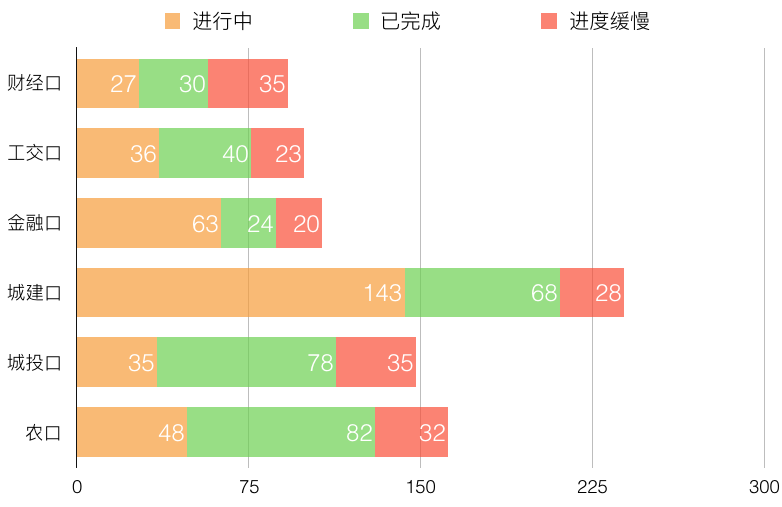
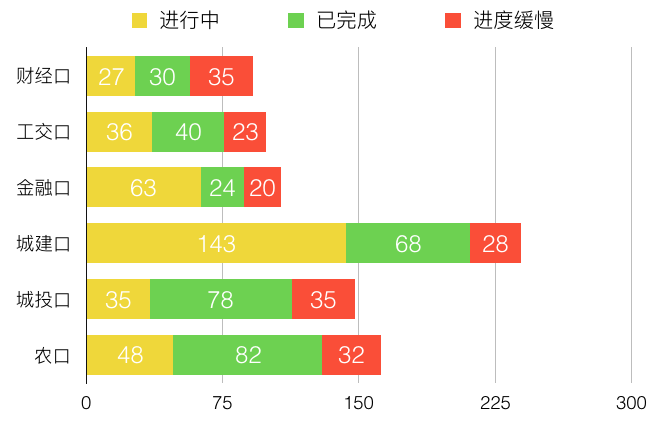
add chart view.

diff --git a/ZhengFu.js b/ZhengFu.js
@@ -18,11 +18,11 @@ var ZhengFu = React.createClass({
   _loadChart: function() {
     if(Platform.OS === 'ios') {
       return (
-        <Image style={styles.chart} source={require('./images/piechart.png')}/>
+        <Image style={styles.chart} source={require('./images/piechart2.png')}/>
       );
     } else {
       return (
-        <Image style={styles.chart} source={{uri: 'piechart'}} />
+        <Image style={styles.chart} source={{uri: 'piechart2'}} />
       );
     }
   },
@@ -31,19 +31,32 @@ var ZhengFu = React.createClass({
     return (
       <View style={styles.container}>
         <ScrollView style={{flex: 1, marginBottom: 55, marginTop: 10}}>
+          <View style={styles.chartBox}>
+            <Text style={styles.title}>2016年安康市委督办项目完成情况</Text>
+            <TouchableOpacity onPress={() => Actions.chart()}>
+              {this._loadChart('piechart')}
+            </TouchableOpacity>
+            <TouchableOpacity onPress={() => Actions.chart()}>
+              <View style={{height: 40, alignItems: 'center',
+                justifyContent: 'center', borderTopWidth: 1,
+                borderColor: '#DFDFDF'}}>
+                <Text style={{color: '#1DB8FF', fontSize: 18}}>更多</Text>
+              </View>
+            </TouchableOpacity>
+          </View>
           <Text style={{marginLeft: 10, marginBottom: 5, color: 'grey'}}>按类型</Text>
           <View style={[styles.grid, {marginBottom: 15}]}>
             <View style={[styles.row, styles.gridRow]}>
               <View style={[styles.item]}>
                 <TouchableOpacity onPress={() => Actions.units({title: '政府工作报告', type2: 'gzbg'})}>
                   <Text style={styles.itemTitle}>政府工作报告</Text>
-                  <Text style={styles.itemSubTitle}>153个</Text>
+                  <Text style={styles.itemSubTitle}>123个</Text>
                 </TouchableOpacity>
               </View>
               <View style={[styles.item]}>
                 <TouchableOpacity onPress={() => Actions.units({title: '重点项目', type2: 'zdxm'})}>
                   <Text style={styles.itemTitle}>重点项目</Text>
-                  <Text style={styles.itemSubTitle}>580个</Text>
+                  <Text style={styles.itemSubTitle}>380个</Text>
                 </TouchableOpacity>
               </View>
             </View>
@@ -51,13 +64,13 @@ var ZhengFu = React.createClass({
               <View style={[styles.item]}>
                 <TouchableOpacity onPress={() => Actions.units({title: '重点工程', type2: 'zdgc'})}>
                   <Text style={styles.itemTitle}>重点工程</Text>
-                  <Text style={styles.itemSubTitle}>80个</Text>
+                  <Text style={styles.itemSubTitle}>30个</Text>
                 </TouchableOpacity>
               </View>
               <View style={[styles.item]}>
                 <TouchableOpacity onPress={() => Actions.units({title: '公开承诺', type2: 'gkcn'})}>
                   <Text style={styles.itemTitle}>公开承诺</Text>
-                  <Text style={styles.itemSubTitle}>208个</Text>
+                  <Text style={styles.itemSubTitle}>108个</Text>
                 </TouchableOpacity>
               </View>
             </View>
@@ -69,19 +82,19 @@ var ZhengFu = React.createClass({
               <View style={[styles.item]}>
                 <TouchableOpacity onPress={() => {Actions.units({title: '财经口', type2: 'all'})}}>
                   <Text style={styles.itemTitle}>财经口</Text>
-                  <Text style={styles.itemSubTitle}>180个</Text>
+                  <Text style={styles.itemSubTitle}>83个</Text>
                 </TouchableOpacity>
               </View>
               <View style={[styles.item]}>
                 <TouchableOpacity onPress={() => Actions.units({title: '工交口',type2: 'all'})}>
                   <Text style={styles.itemTitle}>工交口</Text>
-                  <Text style={styles.itemSubTitle}>203个</Text>
+                  <Text style={styles.itemSubTitle}>103个</Text>
                 </TouchableOpacity>
               </View>
               <View style={[styles.item]}>
                 <TouchableOpacity onPress={() => Actions.units({title: '金融口', type2: 'all'})}>
                   <Text style={styles.itemTitle}>金融口</Text>
-                  <Text style={styles.itemSubTitle}>193个</Text>
+                  <Text style={styles.itemSubTitle}>103个</Text>
                 </TouchableOpacity>
               </View>
             </View>
@@ -90,19 +103,19 @@ var ZhengFu = React.createClass({
               <View style={[styles.item]}>
                 <TouchableOpacity onPress={() => Actions.units({title: '城建口', type2: 'all'})}>
                   <Text style={styles.itemTitle}>城建口</Text>
-                  <Text style={styles.itemSubTitle}>85个</Text>
+                  <Text style={styles.itemSubTitle}>45个</Text>
                 </TouchableOpacity>
               </View>
               <View style={[styles.item]}>
                 <TouchableOpacity onPress={() => Actions.units({title: '城投口', type2: 'all'})}>
                   <Text style={styles.itemTitle}>城投口</Text>
-                  <Text style={styles.itemSubTitle}>253个</Text>
+                  <Text style={styles.itemSubTitle}>143个</Text>
                 </TouchableOpacity>
               </View>
               <View style={[styles.item]}>
                 <TouchableOpacity onPress={() => Actions.units({title: '农口', type2: 'all'})}>
                   <Text style={styles.itemTitle}>农口</Text>
-                  <Text style={styles.itemSubTitle}>221个</Text>
+                  <Text style={styles.itemSubTitle}>121个</Text>
                 </TouchableOpacity>
               </View>
             </View>

diff --git a/App.js b/App.js
@@ -60,11 +60,6 @@ var App = React.createClass({
               component={NewsView}
               onRight={()=>{alert('敬请期待');}}
               rightTitle={<Icon style={{color: 'white'}} name={'ios-search'} size={25} />}/>
-            <Scene key="chart" title="数据分析"
-              icon={TabIcon} iconName={"ios-pie"}
-              navigationBarStyle={{backgroundColor: '#D03F4A'}}
-              titleStyle={{color: 'white'}}
-              component={ChartView}/>
             <Scene key="my" title="我"
               icon={TabIcon} iconName={"ios-contact"}
               navigationBarStyle={{backgroundColor: '#D03F4A'}}
@@ -131,6 +126,14 @@ var App = React.createClass({
             hideNavBar={false}
             navigationBarStyle={{backgroundColor: '#D03F4A'}}
             titleStyle={{color: 'white'}}
+            hideBackImage={true}
+            backTitle={<Icon style={{color: 'white'}} name={'ios-arrow-back'} size={25} />}/>
+
+          <Scene key="chart" title="统计分析"
+            icon={TabIcon} iconName={"ios-pie"}
+            navigationBarStyle={{backgroundColor: '#D03F4A'}}
+            titleStyle={{color: 'white'}}
+            component={ChartView}
             hideBackImage={true}
             backTitle={<Icon style={{color: 'white'}} name={'ios-arrow-back'} size={25} />}/>
 

diff --git a/ShiWei.js b/ShiWei.js
@@ -31,6 +31,20 @@ var ShiWei = React.createClass({
     return (
       <View style={styles.container}>
         <ScrollView style={{flex: 1, marginBottom: 55, marginTop: 10}}>
+          <View style={styles.chartBox}>
+            <Text style={styles.title}>2016年安康市委督办项目完成情况</Text>
+            <TouchableOpacity onPress={() => Actions.chart()}>
+              {this._loadChart('piechart')}
+            </TouchableOpacity>
+            <TouchableOpacity onPress={() => Actions.chart()}>
+              <View style={{height: 40, alignItems: 'center',
+                justifyContent: 'center', borderTopWidth: 1,
+                borderColor: '#DFDFDF'}}>
+                <Text style={{color: '#1DB8FF', fontSize: 18}}>更多</Text>
+              </View>
+            </TouchableOpacity>
+          </View>
+
           <Text style={{marginLeft: 10, marginBottom: 5, color: 'grey'}}>按类型</Text>
           <View style={[styles.grid, {marginBottom: 15}]}>
             <View style={[styles.row, styles.gridRow]}>

diff --git a/ProjectDashboad.js b/ProjectDashboad.js
@@ -38,8 +38,8 @@ var ProjectDashboad = React.createClass({
         tabBarActiveTextColor={'#D03F4A'}
         tabBarBackgroundColor={'white'}
         tabBarTextStyle={{fontSize: 16, marginTop: 5}}>
-        <ShiWei tabLabel="项目概况"/>
-        <ZhengFu tabLabel="督办事项"/>
+        <ShiWei tabLabel="市委督办"/>
+        <ZhengFu tabLabel="市政府督办"/>
       </ScrollableTabView>
     );
   },

diff --git a/ChartView.js b/ChartView.js
@@ -94,7 +94,6 @@ var styles = StyleSheet.create({
   container: {
     flex: 1,
     marginTop: HEADER_HEIGHT,
-    marginBottom: 55,
   },
   section: {
     marginLeft: 10,
